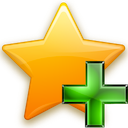
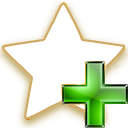
New page action, hover behavior

diff --git a/chrome/keep.html b/chrome/keep.html
@@ -91,7 +91,18 @@
         } else if (request.type == "upload_all_bookmarks") {
           upload_all_bookmarks();
         }
+        else if (request.type === "check_hover_existed") {
         // Return nothing to let the connection be cleaned up.
+          if(request.kifi_hover === false) { addHover(request.tabid); }
+        }
+        else if (request.type === "set_page_icon") {
+          if(request.is_kept === true) {
+            setPageIcon(tab.id, true);
+          }
+          else {
+            setPageIcon(tab.id, true);
+          }
+        }
       } catch (e) {
         error(e);
       }
@@ -166,6 +177,7 @@
             log("injecting to google result page: done!", tab);
           }, 5000);
         } else if (request.isGoogle === false) {
+
           var pageLocation = request.location;
           log("injecting hover: " + request, tab);
           var hoverTimeout = getConfigs().hoverTimeout;
@@ -180,15 +192,16 @@
             getBookMarks(function(bookmarks) {
               chrome.bookmarks.getSubTree(bookmarks.keepIt.id, function(bm) {
                 if(isAlreadyKept(bm, pageLocation)) {
+                  setPageIcon(tab.id, true);
                   log("hiding hover cause URL " + pageLocation + " already kept", tab);
                 } else {
                   log("injecting hover: " + request, tab);
+                  setPageIcon(tab.id, false);
                   setTimeout(function() {
-                    chrome.tabs.executeScript(tab.id, {code:"console.log('[" + new Date().getTime() + "] (from injector) [keepit:hover] tab: " + tab.id + "')"}, 
-                      function(vars){
-                        log("[callback] executed hover remote logging", tab);
+                    // For the auto-slide in, we check to see if the hover has existed on this page before.
+                    chrome.tabs.executeScript(tab.id, {
+                      code: "chrome.extension.sendRequest({'type': 'check_hover_existed', 'kifi_hover': window.kifi_hover !== undefined, 'tabid': " + tab.id +"});"
                     });
-                    chrome.tabs.executeScript(tab.id, {file:"hover.js"});
                   }, hoverTimeout * 1000);
                 }
               });
@@ -201,6 +214,23 @@
         error(e);
       }
     }
+
+
+    function addHover(tabid) {
+      chrome.tabs.executeScript(tabid, {
+        code:"console.log('[" + new Date().getTime() + "] (from injector) [keepit:hover] tab: " + tabid + "')"
+        }, 
+        function(vars){
+          log("[callback] executed hover remote logging", tabid);
+      });
+      chrome.tabs.executeScript(tabid, {file:"hover.js"});
+    }
+
+    function addHoverToTab(tab) {
+      addHover(tab.id);
+    }
+
+    chrome.pageAction.onClicked.addListener(addHoverToTab);
 
     function isAlreadyKept(bms, location) {
       try {
@@ -218,6 +248,16 @@
       } catch (e) {
         error(e);
       }
+    }
+
+    function setPageIcon(tabId, is_kept) {
+      if(is_kept === true) {
+        chrome.pageAction.setIcon({"tabId":tabId, "path":"kept_128.png"});
+      }
+      else {
+        chrome.pageAction.setIcon({"tabId":tabId, "path":"keep_128.png"});
+      }
+      chrome.pageAction.show(tabId);
     }
     
     function injectGoogleDiv(tab) {

diff --git a/chrome/hover.js b/chrome/hover.js
@@ -9,9 +9,13 @@ console.log("injecting keep it hover div");
     console.log("[" + new Date().getTime() + "] ", message);
   }
 
-  function showBookmarkHover(user) {
+  function showKeptItHover(user) {
 
-    var existingElements = $('.kifi_hover').length;
+  }
+
+  function showBookmarkHover(user) {
+    window.kifi_hover = true; // set global variable, so hover will not automatically slide out again.
+    var existingElements = $('.kifi_hover:visible').length;
     if (existingElements > 0) {
       console.warn("hover is already injected. There are " + existingElements + " existing elements")
       return;
@@ -63,42 +67,45 @@ console.log("injecting keep it hover div");
 
                   // Binders
                   $('body').prepend(tb);
-                  $('.close').click(function() {
+                  $('.kificlose').click(function() {
                     slideOut();
                   });
                   $('.profilepic').click(function() { location=facebookProfileLink; });
 
                   $('.keepitbtn').click(function() {
                     log("bookmarking page: " + document.location.href);
+
+                    chrome.extension.sendRequest({
+                      "type": "set_page_icon",
+                      "is_kept": "true"
+                    });
+
                     var request = {
-                      type: "add_bookmarks", 
-                      url: document.location.href, 
-                      title: document.title, 
-                      private: $("#keepit_private").is(":checked")
+                      "type": "add_bookmarks", 
+                      "url": document.location.href, 
+                      "title": document.title, 
+                      "private": $("#keepit_private").is(":checked")
                     }
                     chrome.extension.sendRequest(request, function(response) {
                       log("bookmark added! -> " + JSON.stringify(response));
-                      slideOut();
+                      keptItslideOut();
                    });
                   });
 
                   $('.dropdownbtn').click(function() {
                     $('.moreinnerbox').slideToggle(150);
                   });
+
+                  slideIn();
                 },
                 "json"
             );
         }
     };
     req.send(null);
-    
-
-    setTimeout(function() {
-      slideIn();
-    }, 500);//1 seconds // CHANGE ME
   }
 
-  function slideOut() {
+  function keptItslideOut() {
     var position = $('.kifi_hover').position().top;
     $('.kifi_hover').animate({
         bottom: '+=' + position,
@@ -110,8 +117,19 @@ console.log("injecting keep it hover div");
       });
   }
 
+  function slideOut() {
+    $('.kifi_hover').animate({
+        opacity: 0,
+        right: '-=330',
+        bottom: '-=75'
+      },
+      300, function() {
+        $('.kifi_hover').detach();
+      });
+  }
+
   function slideIn() {
-    $("body").after(hover);
+    //$("body").after(hover);
     $('.kifi_hover').animate({
         right: '+=330',
         bottom: '+=75',

diff --git a/chrome/hover.css b/chrome/hover.css
@@ -24,7 +24,8 @@
   border-radius: 0px;
   background: transparent;
   min-width: 0px;
-  box-sizing:content-box;
+  box-sizing: content-box;
+  text-align: left;
 }
 
 .kifi_hover div {
